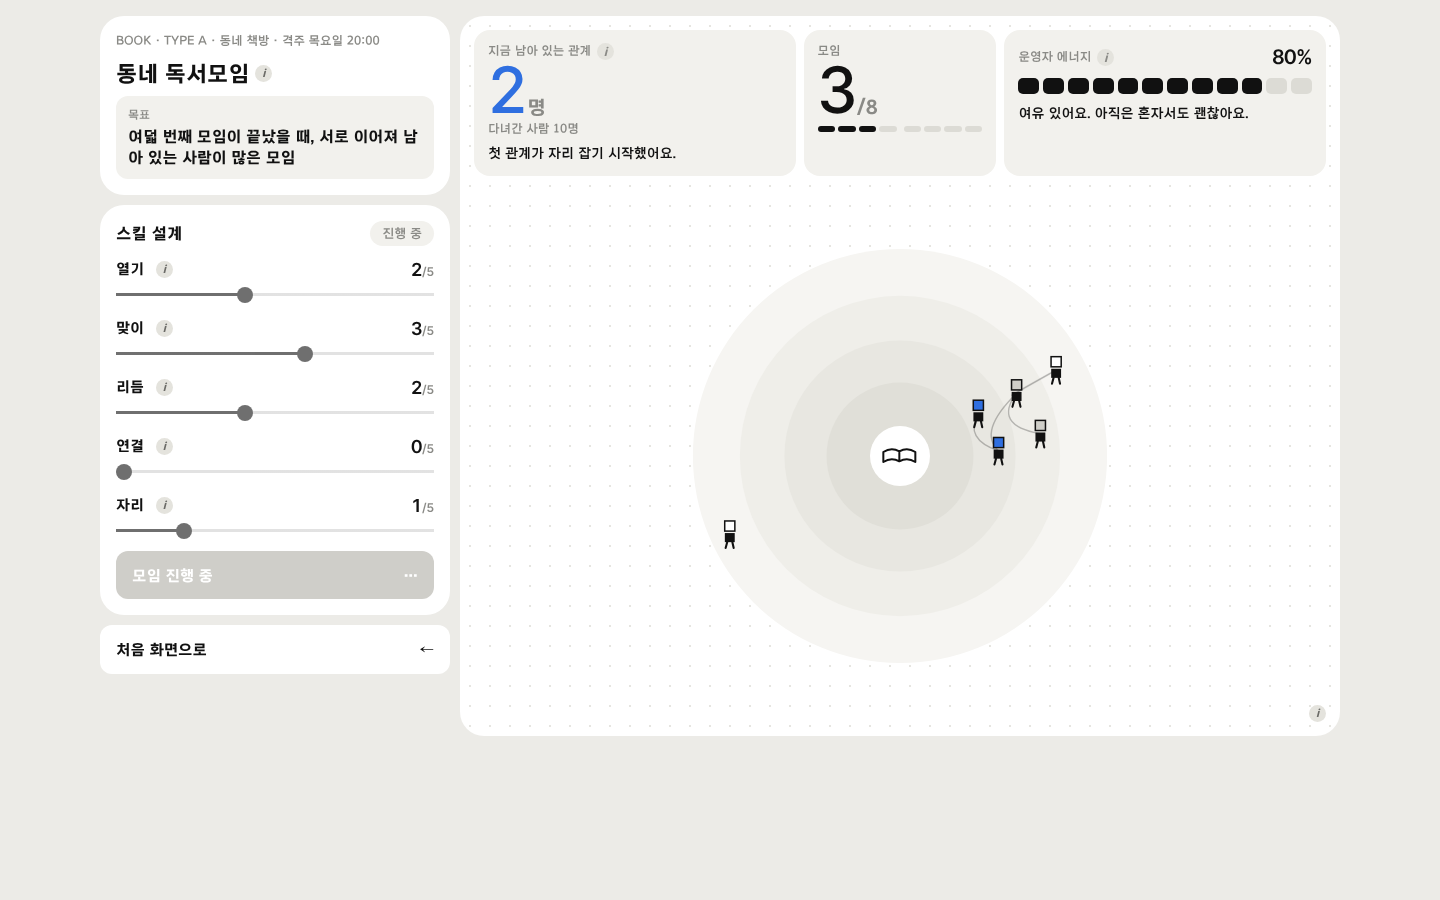
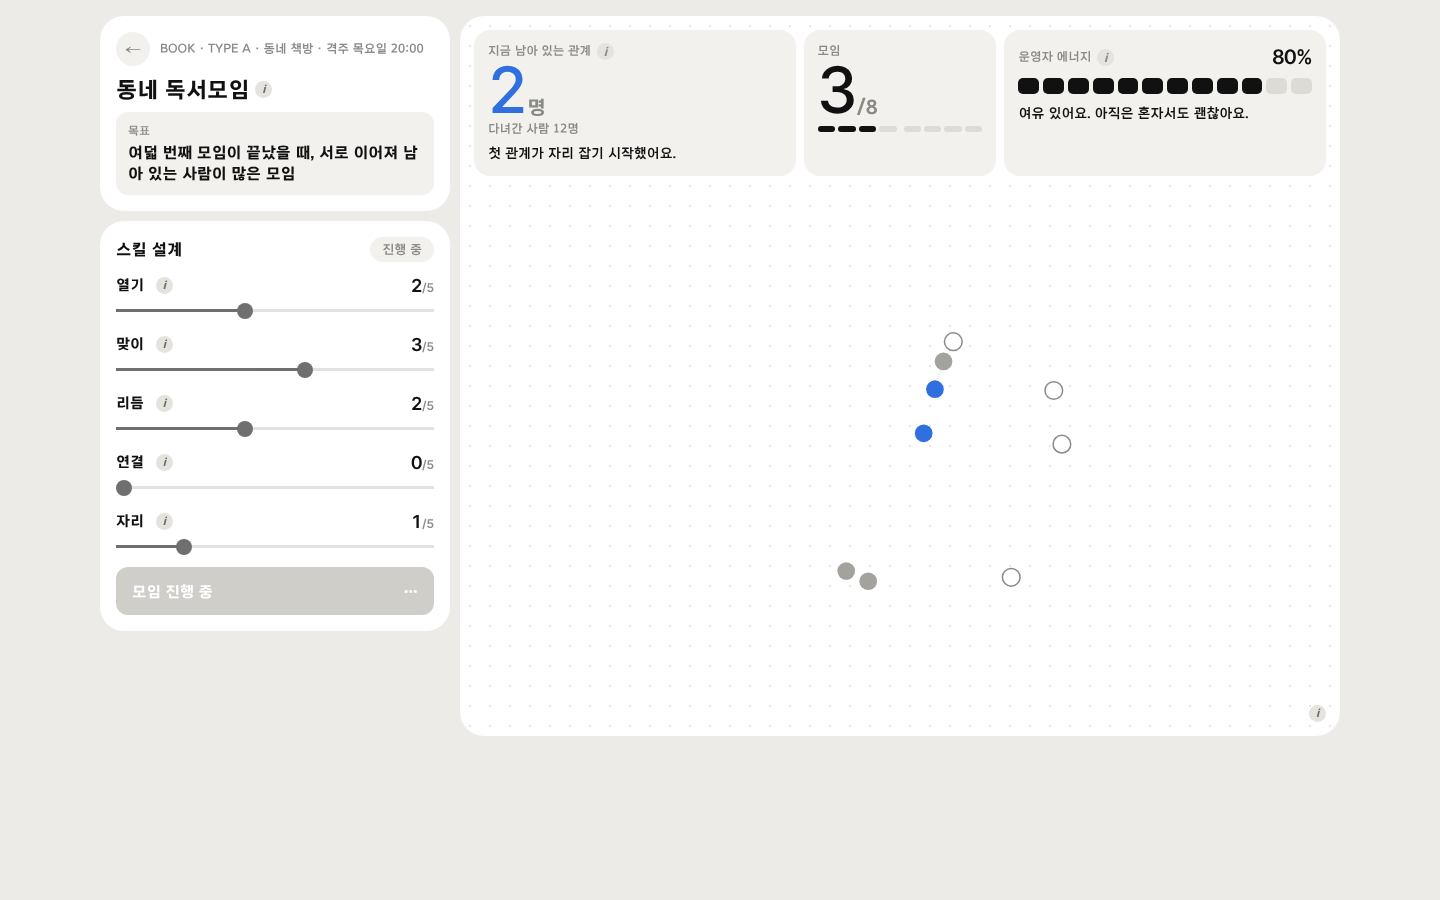
게임 v1.3 시안: 세로줄 추상 카드 그래픽, 왼쪽 위 뒤로 버튼, 점 시뮬레이션 움직임
Claude-Session: https://claude.ai/code/session_01SaCvLutmawHZS3kxPWYxw7

diff --git a/thesis/game/moim.v07.src.html b/thesis/game/moim.v07.src.html
@@ -510,6 +510,21 @@ body{background:var(--page)}
 .ovbar .info .tip{top:calc(100% + 8px);bottom:auto}
 .ovbar .ov-e .info .tip{left:auto;right:-8px}
 .ovbar .ov-e .gauge{margin-top:auto}
+
+/* ───────── v1.3 추상 세로줄 그래픽, 왼쪽 위 뒤로 버튼, 동그라미 사람 ───────── */
+.ecard{background:var(--tbg)}
+.e-img{margin:0;border-radius:0;aspect-ratio:auto;height:150px;background:transparent}
+.e-head .code{color:var(--tink)}
+.e-head .sub{color:color-mix(in srgb,var(--tink) 70%,#fff)}
+.e-cells .cell{background:rgba(255,255,255,.6)}
+.e-txt{color:#222}
+.back{width:34px;height:34px;border-radius:50%;border:0;background:var(--cell);font-size:17px;font-weight:700;display:inline-grid;place-items:center;flex:none;line-height:1}
+.back:hover{background:var(--ink);color:#fff}
+.e-logo{gap:10px}
+.e-logo .back{background:var(--page)}
+.pcard .cat{gap:10px}
+.c2-l .no{display:flex;align-items:center;gap:10px}
+.c2-l .back{background:var(--card)}
 @media (prefers-reduced-motion:reduce){*{transition:none!important;animation:none!important}}
 </style>
 
@@ -550,8 +565,8 @@ const VERDICTS={
 const VORDER=['self','quiet','crowd','closed','burn','root'];
 const STAGE_NAMES=['처음 온 사람','다시 온 사람','자리 잡은 사람','함께 이끄는 사람'];
 const ACC='#2f6fe0';
-const STAGE_C=[COL.paper,'#cfcec8',ACC,ACC];
-const RING=[.76,.57,.39,.22];
+const STAGE_C=[COL.paper,'#a3a29c',ACC,ACC];
+const RING=[.82,.5,.14,.04];
 const MAXLV=5, START_PTS=8, MEETINGS=8, HALF=4, TICK=1800;
 
 const app=document.getElementById('app');
@@ -598,7 +613,7 @@ function layout(snap){
     for(let it=0;it<30&&n>1;it++)for(let i=0;i<n;i++){const j=(i+1)%n;let df=ang[j]-ang[i];if(j===0)df+=TAU;
       if(df<gap){const push=(gap-df)/2;ang[i]-=push;ang[j]+=push;}}
     // 위쪽 쐐기는 구역 이름 자리로 비워 둬요
-    const W0=.7;
+    const W0=0;
     grp.forEach((p,i)=>{const r=RING[s]+(i%2?.02:-.02);const t=(((ang[i]%TAU)+TAU)%TAU)/TAU;const A=-Math.PI/2+W0/2+t*(TAU-W0);
       p.tx=Math.cos(A)*r;p.ty=Math.sin(A)*r;if(snap){p.x=p.tx;p.y=p.ty;p.alpha=1;}});
   }
@@ -851,30 +866,36 @@ function renderIntro(){
   document.getElementById('start').onclick=()=>{screen='select';render();};
 }
 // 모임 카드 그림: 하프톤 점 바탕 + 모임의 길(검은 선)
-const ACT_PATH={};let ACT_D={};
-function typeArt(k,c){
-  const R=rng(k.length*131+7);let dots='';
-  for(let y=6;y<250;y+=10)for(let x=6;x<400;x+=10){const n=.5+.5*Math.sin(x*.018+y*.011+R()*.6)*Math.cos(y*.02-x*.007);
-    const rr=n*n*4.2;if(rr>.6)dots+=`<circle cx="${x}" cy="${y}" r="${rr.toFixed(1)}"/>`;}
-  const path=(ACT_D={book:'M80 170 Q140 130 200 165 Q260 130 320 170 L320 95 Q260 55 200 90 Q140 55 80 95 Z M200 90 L200 165',
-    run:'M110 160 C70 160 70 90 120 85 C170 80 180 120 230 110 C290 98 330 120 320 150 C310 185 230 175 200 168 C170 160 140 160 110 160 Z',
-    plog:'M40 120 C90 80 130 160 180 120 C230 80 270 160 320 120 C340 105 355 105 370 112'})[k];
-  const extra=k==='plog'?[[95,112],[160,132],[250,110],[300,140]].map(([x,y])=>`<rect x="${x}" y="${y}" width="9" height="9" fill="#fff" stroke="#111" stroke-width="3"/>`).join(''):'';
-  return `<svg viewBox="0 0 400 250" preserveAspectRatio="xMidYMid slice" aria-hidden="true"><g fill="${c}" fill-opacity=".55">${dots}</g>
-    <path d="${path}" fill="none" stroke="#fff" stroke-width="14" stroke-linejoin="round" stroke-linecap="round"/><path d="${path}" fill="none" stroke="#111" stroke-width="5" stroke-linejoin="round" stroke-linecap="round"/>${extra}</svg>`;
+const TPAL={book:{bg:'#e4ecfb',mid:'#a9c1ef',dark:'#3a68c8',ink:'#1f438f'},
+  run:{bg:'#fbe7e3',mid:'#f2b2a8',dark:'#d24a37',ink:'#8f2c1e'},
+  plog:{bg:'#e3f3e6',mid:'#a3d6ad',dark:'#2f8e48',ink:'#1d5e2f'}};
+function typeArt(k){
+  const P=TPAL[k],W=400,H=190;
+  const shape={
+    book:'<rect x="0" y="120" width="400" height="70"/><rect x="60" y="80" width="280" height="40"/><rect x="130" y="40" width="140" height="40"/><rect x="175" y="0" width="50" height="40"/>',
+    run:'<circle cx="200" cy="190" r="150"/>',
+    plog:'<rect x="40" y="20" width="70" height="55"/><rect x="250" y="20" width="70" height="55"/><rect x="145" y="75" width="70" height="55"/><rect x="40" y="130" width="70" height="60"/><rect x="320" y="110" width="80" height="80"/>'}[k];
+  let thin='',thick='';
+  for(let x=2;x<W;x+=6)thin+=`<line x1="${x}" y1="0" x2="${x}" y2="${H}"/>`;
+  for(let x=1;x<W;x+=3)thick+=`<line x1="${x}" y1="0" x2="${x}" y2="${H}"/>`;
+  return `<svg viewBox="0 0 ${W} ${H}" preserveAspectRatio="xMidYMid slice" aria-hidden="true">
+    <defs><clipPath id="cp-${k}">${shape}</clipPath></defs>
+    <rect width="${W}" height="${H}" fill="${P.bg}"/>
+    <g stroke="${P.mid}" stroke-width="1.2">${thin}</g>
+    <g clip-path="url(#cp-${k})"><rect width="${W}" height="${H}" fill="${P.mid}" fill-opacity=".45"/><g stroke="${P.dark}" stroke-width="1.4">${thick}</g></g></svg>`;
 }
 function renderSelect(){
   screen='select';
   const now=new Date(),clock=`${pad(now.getHours())}:${pad(now.getMinutes())}`;
   app.innerHTML=`<section class="entry">
-    <div class="e-bar"><span class="e-logo"><i></i>Community Entry</span><span class="e-mid">모임을 하나 고르세요. 같은 설계라도 모임마다 결과가 달라요.</span><span class="e-clock num">${clock}</span></div>
-    <div class="e-cards">${TKEYS.map((k,i)=>{const v=TYPES[k];return `<button class="ecard" data-t="${k}" style="--c:${v.c}" aria-label="${v.name} 시작">
-      <div class="e-img">${typeArt(k,v.c)}<div class="e-top"><span class="pill"><i class="dot" style="background:${v.c}"></i>TYPE ${'ABC'[i]}</span></div></div>
+    <div class="e-bar"><span class="e-logo"><button class="back" id="back" aria-label="처음 화면으로">←</button>Community Entry</span><span class="e-mid">모임을 하나 고르세요. 같은 설계라도 모임마다 결과가 달라요.</span><span class="e-clock num">${clock}</span></div>
+    <div class="e-cards">${TKEYS.map((k,i)=>{const v=TYPES[k];return `<button class="ecard" data-t="${k}" style="--c:${v.c};--tbg:${TPAL[k].bg};--tink:${TPAL[k].ink}" aria-label="${v.name} 시작">
+      <div class="e-img">${typeArt(k)}</div>
       <div class="e-head"><span class="code">${v.code}</span><span class="ev">${info(`근거 ${v.ev}: 선행연구에서 뽑은 발견 번호예요.`)}</span><span class="sub">${v.name} · ${v.place} · ${v.when} ${v.time}</span></div>
       <div class="cgrid e-cells">${[['유입',v.st[0]],['머무름',v.st[1]],['운영 부담',v.st[2]]].map(([n,x])=>`<div class="cell"><small>${n}</small><b>${x}<em>/5</em></b></div>`).join('')}</div>
       <div class="e-txt"><p><b>특징</b>${v.plus}</p><p class="neg"><b>주의</b>${v.minus}</p></div>
       <div class="e-go"><span>이 모임 운영하기</span><span>▶</span></div></button>`;}).join('')}</div>
-    <div class="e-foot"><button class="btn ghost" id="back"><span>← 처음 화면</span></button><span>특징과 주의는 연구 근거 표의 발견(F 번호)에서 왔어요.</span></div></section>`;
+    </section>`;
   app.querySelectorAll('.ecard').forEach(b=>b.onclick=()=>newGame(b.dataset.t));
   document.getElementById('back').onclick=()=>{screen='intro';render();};
 }
@@ -943,7 +964,7 @@ function renderPanel(){
   const e=Math.round(st.E);
   P.innerHTML=`
     <section class="pcard">
-      <div class="cat">${T.code} · TYPE ${'ABC'[TKEYS.indexOf(st.type)]} · ${T.place} · ${T.when} ${T.time}</div>
+      <div class="cat"><button class="back" id="quit" aria-label="처음 화면으로">←</button>${T.code} · TYPE ${'ABC'[TKEYS.indexOf(st.type)]} · ${T.place} · ${T.when} ${T.time}</div>
       <h2 class="pname">${T.name}${info(`<b>특징</b> ${T.plus}<br><b class="neg">주의</b> ${T.minus}<br><small>근거 ${T.ev}</small>`)}</h2>
       <div class="goal3"><small>목표</small><p>여덟 번째 모임이 끝났을 때, <mark>서로 이어져 남아 있는 사람</mark>이 많은 모임</p></div>
     </section>
@@ -955,7 +976,7 @@ function renderPanel(){
         <input type="range" id="r-${s.k}" data-k="${s.k}" min="0" max="${MAXLV}" step="1" value="${v}" style="--fill:${v/MAXLV*100}%;--c:${s.c}" ${editable?'':'disabled'}></div>`;}).join('')}
       ${editable?`<button class="btn" id="go"><span>${lv?'남은 모임 4번 진행':'모임 8번 시작'}</span><span>▶</span></button>`:`<button class="btn" disabled><span>모임 진행 중</span><span>…</span></button>`}
     </section>
-    <button class="btn ghost" id="quit"><span>처음 화면으로</span><span>←</span></button>`;
+`;
   P.querySelectorAll('input[type=range]').forEach(inp=>inp.oninput=()=>{
     const k=inp.dataset.k, old=st.skills[k];let v=+inp.value;
     v=clamp(v,st.lock[k],old+st.points);st.points-=v-old;st.skills[k]=v;renderPanel();resetIdle();
@@ -994,17 +1015,9 @@ function finish(){
 
 // 사람: 네모난 머리와 검은 몸 (포스터의 걷는 사람들처럼)
 function figure(x,y,r,head,hollow,a){
-  ctx.globalAlpha=a;
-  ctx.fillStyle=COL.ink;ctx.strokeStyle=COL.ink;
   const d=window.devicePixelRatio||1;
-  // 몸통과 다리
-  ctx.fillRect(x-r*.38,y-r*.1,r*.76,r*.7);
-  ctx.lineWidth=Math.max(1.5,r*.16);ctx.beginPath();ctx.moveTo(x-r*.2,y+r*.6);ctx.lineTo(x-r*.32,y+r*1.05);ctx.moveTo(x+r*.2,y+r*.6);ctx.lineTo(x+r*.3,y+r*1.05);ctx.stroke();
-  // 머리
-  const h=r*.78;
-  ctx.fillStyle=head;ctx.fillRect(x-h/2,y-r*.25-h,h,h);
-  ctx.lineWidth=1.5*d;ctx.strokeRect(x-h/2,y-r*.25-h,h,h);
-  if(hollow){ctx.globalAlpha=a*.5;}
+  ctx.globalAlpha=a;ctx.beginPath();ctx.arc(x,y,r*.68,0,Math.PI*2);ctx.fillStyle=head;ctx.fill();
+  if(head==='#ffffff'||head===COL.paper){ctx.lineWidth=1.5*d;ctx.strokeStyle='#8a8a86';ctx.stroke();}
 }
 function loop(){
   if(!st||!canvas||!document.body.contains(canvas))return;
@@ -1013,10 +1026,16 @@ function loop(){
   ctx.clearRect(0,0,W,H);
   // 구역: 검은 실선 동심원
   const B=[.86,.665,.48,.305,.09];
-  ['#f6f5f2','#efeee9','#e8e7e1','#e0dfd8'].forEach((c,i)=>{ctx.fillStyle=c;ctx.beginPath();ctx.arc(cx,cy,B[i]*S,0,Math.PI*2);ctx.fill();});
   // 움직임
-  for(const p of st.people){p.x+=(p.tx-p.x)*.07;p.y+=(p.ty-p.y)*.07;
-    if(p.leaving)p.alpha=Math.max(0,p.alpha-.02);else p.alpha=Math.min(1,p.alpha+.05);}
+  {const P=st.people,rr=(9*d)/S*2.25,byIdM=new Map(P.map(q=>[q.id,q]));
+    for(const p of P){p.vx=(p.vx||0)+(p.tx-p.x)*(p.leaving?.004:.0025);p.vy=(p.vy||0)+(p.ty-p.y)*(p.leaving?.004:.0025);
+      p.vx+=(Math.random()-.5)*.0006;p.vy+=(Math.random()-.5)*.0006;}
+    for(const l of st.links){const a=byIdM.get(l[0]),b=byIdM.get(l[1]);if(!a||!b||a.leaving||b.leaving)continue;
+      const dx=b.x-a.x,dy=b.y-a.y,dist=Math.hypot(dx,dy)||1e-6;if(dist>rr*1.1){const f=(dist-rr)*.006;a.vx+=dx/dist*f;a.vy+=dy/dist*f;b.vx-=dx/dist*f;b.vy-=dy/dist*f;}}
+    for(let i=0;i<P.length;i++)for(let j=i+1;j<P.length;j++){const a=P[i],b=P[j];const dx=b.x-a.x,dy=b.y-a.y,dist=Math.hypot(dx,dy)||1e-6;
+      if(dist<rr){const f=(rr-dist)*.18;a.vx-=dx/dist*f;a.vy-=dy/dist*f;b.vx+=dx/dist*f;b.vy+=dy/dist*f;}}
+    for(const p of P){p.vx*=.86;p.vy*=.86;p.x+=p.vx;p.y+=p.vy;
+      if(p.leaving)p.alpha=Math.max(0,p.alpha-.012);else p.alpha=Math.min(1,p.alpha+.05);}}
   st.people=st.people.filter(p=>!(p.leaving&&p.alpha<=0));
   // 관계 선: 굵은 노란 직선, 새로 생기면 더 굵게
   const byId=new Map(st.people.map(p=>[p.id,p])), now=performance.now();
@@ -1024,15 +1043,10 @@ function loop(){
     const fresh=l[2]?Math.max(0,1-(now-l[2])/1500):0;
     const ax=cx+a.x*S,ay=cy+a.y*S,bx=cx+b.x*S,by=cy+b.y*S,qx=cx+(a.x+b.x)/2*S*.72,qy=cy+(a.y+b.y)/2*S*.72;
     ctx.lineCap='round';ctx.globalAlpha=Math.min(a.alpha,b.alpha);
-    ctx.strokeStyle='rgba(17,17,17,.26)';ctx.lineWidth=1.4*d;ctx.beginPath();ctx.moveTo(ax,ay);ctx.quadraticCurveTo(qx,qy,bx,by);ctx.stroke();
     if(fresh>0){ctx.strokeStyle='rgba(17,17,17,.75)';ctx.globalAlpha=Math.min(a.alpha,b.alpha)*fresh;ctx.lineWidth=2.6*d;ctx.beginPath();ctx.moveTo(ax,ay);ctx.quadraticCurveTo(qx,qy,bx,by);ctx.stroke();}}
   ctx.globalAlpha=1;
-  // 가운데: 모임이 함께하는 활동 (모임 고르기 카드의 그림과 같은 선)
-  ctx.beginPath();ctx.arc(cx,cy,30*d,0,Math.PI*2);ctx.fillStyle='#ffffff';ctx.fill();
-  if(!ACT_PATH[st.type])ACT_PATH[st.type]=new Path2D(ACT_D[st.type]);
-  {const k=40*d/300;ctx.save();ctx.translate(cx,cy);ctx.scale(k,k);ctx.translate(-205,-125);ctx.strokeStyle=COL.ink;ctx.lineWidth=2*d/k;ctx.lineJoin='round';ctx.lineCap='round';ctx.stroke(ACT_PATH[st.type]);ctx.restore();}
   // 사람
-  for(const p of st.people){const r=(p.stage===3?15:13)*d;
+  for(const p of st.people){const r=(p.stage===3?14:13)*d;
     figure(cx+p.x*S,cy+p.y*S,r,p.leaving?'#ffffff':STAGE_C[p.stage],false,p.leaving?p.alpha*.5:p.alpha);}
   ctx.globalAlpha=1;
   // 사람마다 무슨 일이 있었는지
@@ -1054,7 +1068,7 @@ function renderReport(){
     '욕구 충족':clamp(20+8*k.rhythm+8*k.welcome,0,100),'정서적 연결':clamp(10+12*k.conn+Math.min(30,r.links*2),0,100)};
   app.innerHTML=`<section class="case2">
     <div class="c2-l">
-      <span class="no">CASE No. ${caseNo} · ${new Date(r.t).toLocaleDateString('ko-KR')}</span>
+      <span class="no"><button class="back" id="home2" aria-label="처음 화면으로">←</button>CASE No. ${caseNo} · ${new Date(r.t).toLocaleDateString('ko-KR')}</span>
       <h1>${T.name}</h1>
       <span class="vchip" style="background:${V.c}">${V.t}</span>
       <p>${V.d}</p>
@@ -1080,6 +1094,7 @@ function renderReport(){
     </div></section>`;
   document.getElementById('again').onclick=()=>newGame(st.type);
   document.getElementById('home').onclick=()=>{st=null;screen='intro';render();};
+  document.getElementById('home2').onclick=()=>{clearInterval(timer);st=null;screen='intro';render();};
 }
 
 // 전시용: 아무도 만지지 않으면 처음 화면으로

diff --git a/thesis/26-game-prototype.md b/thesis/26-game-prototype.md
@@ -120,3 +120,9 @@
 - 결과 세 개(남은 관계·모임·운영자 에너지)를 동심원 위 한 줄로 묶음. 원은 그 아래 남은 공간의 가운데 (좁은 화면에서는 2줄)
 - 파랑 기준 다시 정함: "세는 대상과 그 숫자"에만 = 남은 관계 숫자와 그 숫자에 세어지는 사람(파란 머리). 목표 문구와 새 관계 선의 파랑은 뺌
 - 스킬 아이콘 삭제(이름만)
+
+## v1.3 시안 (2026-10-28, 같은 파일, 컨펌 대기)
+- 연구자 피드백: 모임 카드 그래픽을 추상적인 형태로(세로줄 무늬 레퍼런스), 처음 화면 버튼은 글자 없이 왼쪽 위, 사람은 동그라미, 동심원 가운데 그림 삭제, 사람이 모이고 떠나는 모습은 점 시뮬레이션 레퍼런스(FlowingData "A Day in the Life", Nathan Yau)처럼
+- 모임 카드: 가는 세로줄 무늬 바탕 + 진한 세로줄로 채운 추상 도형(BOOK 계단, RUN 반원, PLOG 흩어진 조각), 카드 전체를 모임 색의 옅은 바탕으로, 코드 글자는 같은 색의 진한 톤
+- 뒤로 버튼: 동그란 ← 버튼을 모임 고르기·시뮬레이션·결과 화면 왼쪽 위에
+- 시뮬레이션: 동심원 구역 삭제. 사람은 점, 목표 자리로 끌림 + 관계로 이어진 사람끼리 끌림 + 서로 겹치지 않게 밀어냄. 처음 온 사람은 바깥에서 흘러 들어오고, 자리 잡은 사람은 가운데에서 파란 덩어리로 뭉치고, 떠나는 사람은 바깥으로 흘러가며 흐려짐. 관계 선은 새로 생길 때만 잠깐 보임
